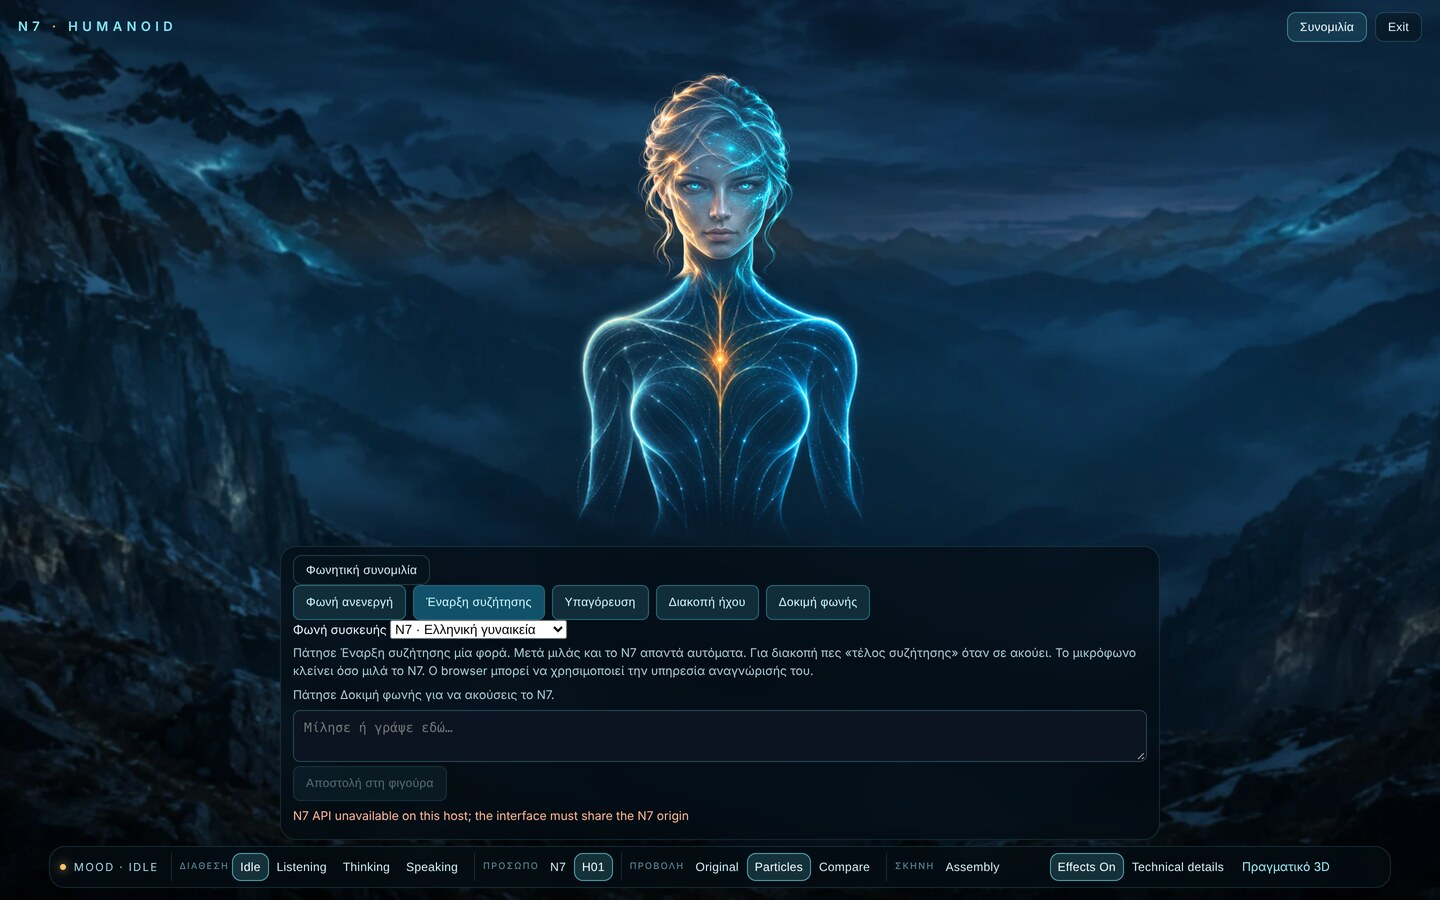
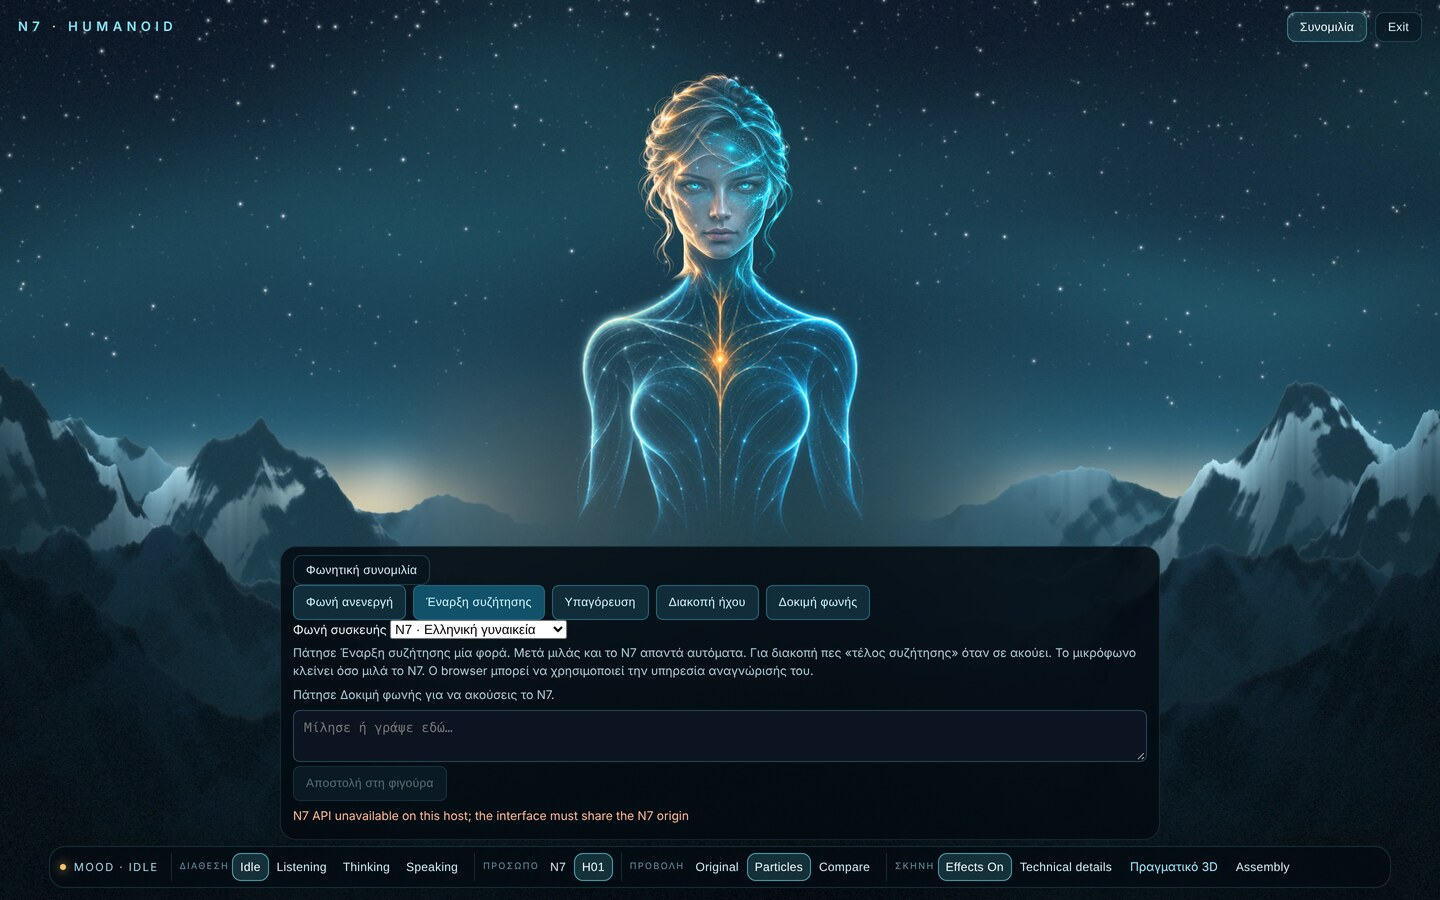
N7 visual trial: designed environment, rigid H01 face plate, stable reduced-motion check
Replace the regraded mountain raster with a new environment painted by code
(star field, horizon glow, six alpine ranges with snow light, valley mist)
that dissolves into dark mist behind the figure. Living highlights keep the
existing guide Step 6 mechanism and now sit on the snow-lit peaks.
H01 turns on a flatter face plate so its features no longer warp; the
approved N7 face volume is unchanged. The reduced-motion check waits for the
Speaking still frame instead of a fixed 200 ms.

Claude-Session: https://claude.ai/code/session_01RQ1QWM1ro54vsfywgD43Eu

diff --git a/tools/n7_apex_preview/N7HeadSurface.ts b/tools/n7_apex_preview/N7HeadSurface.ts
@@ -10,7 +10,10 @@ import * as THREE from "three";
 export type GuideFrame={turn:number;pitch?:number;roll?:number;breath?:number;assembly?:number;baseMood?:number;states?:number[];ages?:number[];ignition?:number;time?:number;voiceLevel?:number};
 // `scale` only raises the raster resolution (second face option); geometry,
 // joints and limits stay in the same 320x480 layout units.
-export function createHeadSurface(image:HTMLCanvasElement,scale=1) {
+// `faceRelief` 0 keeps the approved N7 volume exactly. 1 is for a realistic
+// face (H01): eyes, nose and mouth sit on a nearly flat plate that turns as
+// one piece, and the curvature moves out to the sides under the hair.
+export function createHeadSurface(image:HTMLCanvasElement,scale=1,faceRelief=0) {
   const renderer=new THREE.WebGLRenderer({alpha:false,antialias:false,depth:false,preserveDrawingBuffer:true});
   renderer.setSize(Math.round(320*scale),Math.round(480*scale),false);renderer.setPixelRatio(1);
   renderer.outputColorSpace=THREE.SRGBColorSpace;
@@ -34,7 +37,7 @@ export function createHeadSurface(image:HTMLCanvasElement,scale=1) {
   geometry.setAttribute("source",new THREE.Float32BufferAttribute(sources,2));
   geometry.setIndex(indices);
   const material=new THREE.ShaderMaterial({
-    uniforms:{turn:{value:0},pitch:{value:0},neckMatrix:{value:new THREE.Matrix4()},headMatrix:{value:new THREE.Matrix4()},artwork:{value:texture},breath:{value:0},opacity:{value:1},
+    uniforms:{turn:{value:0},pitch:{value:0},neckMatrix:{value:new THREE.Matrix4()},headMatrix:{value:new THREE.Matrix4()},faceRelief:{value:faceRelief},artwork:{value:texture},breath:{value:0},opacity:{value:1},
       baseMood:{value:0},states:{value:[0,0,0,0]},ages:{value:[0,0,0,0]},count:{value:0},ignition:{value:0},time:{value:0},voiceLevel:{value:-1}},
     depthTest:false,depthWrite:false,side:THREE.DoubleSide,toneMapped:false,transparent:true,
     vertexShader:`
@@ -44,6 +47,7 @@ export function createHeadSurface(image:HTMLCanvasElement,scale=1) {
     uniform float breath;
     uniform mat4 neckMatrix;
     uniform mat4 headMatrix;
+    uniform float faceRelief;
     varying vec2 texUV;
     varying float shade;
     varying float rim;
@@ -57,7 +61,9 @@ export function createHeadSurface(image:HTMLCanvasElement,scale=1) {
       // Rounded rest volume measured on the approved 320x480 artwork:
       // face oval, skull with hair, and the neck column under the chin.
       float face=dome(tile,vec2(160.,138.),vec2(66.,92.),64.);
-      float skull=dome(tile,vec2(160.,105.),vec2(96.,102.),46.);
+      float skull=dome(tile,vec2(160.,105.),vec2(96.,102.),mix(46.,34.,faceRelief));
+      float plateRho=min(1.,length((tile-vec2(160.,140.))/vec2(72.,98.)));
+      face=mix(face,42.*(1.-pow(plateRho,2.8)),faceRelief);
       float neck=28.*cos(min(1.,abs(tile.x-160.)/30.)*1.5707963)*smoothstep(170.,200.,tile.y);
       float depth=smax(smax(face,skull),neck)-6.;
       vec4 rest=vec4(tile.x,tile.y,depth,1.);

diff --git a/tools/n7_apex_preview/N7GuideView.tsx b/tools/n7_apex_preview/N7GuideView.tsx
@@ -129,10 +129,10 @@ export default function N7GuideView({open,onClose,activity,onWorkspace}:{open:bo
         <button type="button" aria-pressed={mode==="compare"} onClick={()=>{setMode("compare");setDetails(true);}}>Compare</button>
       </span>
       <span className="n7-guide-group"><small aria-hidden="true">ΣΚΗΝΗ</small>
-        <button type="button" className="n7-guide-assembly" disabled={!effects} onClick={replayAssembly}>{mode==="assembly"?"Replay Assembly":"Assembly"}</button>
         <button type="button" aria-pressed={effects} onClick={changeEffects}>Effects {effects?"On":"Off"}</button>
         <button type="button" aria-expanded={details} onClick={()=>setDetails(v=>!v)}>Technical details</button>
         <a href={N7_HUMANOID_REFERENCE.slice(0,N7_HUMANOID_REFERENCE.lastIndexOf("/"))+"/avatar-3d/"} target="_blank" rel="noopener noreferrer">Πραγματικό 3D</a>
+        <button type="button" className="n7-guide-assembly" disabled={!effects} onClick={replayAssembly}>{mode==="assembly"?"Replay Assembly":"Assembly"}</button>
         {/* Skip keeps its slot when it does not apply, so the dock and the figure never jump. */}
         {mode==="assembly"||!done?<button type="button" onClick={skip}>Skip</button>:<button type="button" disabled aria-hidden="true" tabIndex={-1} style={{visibility:"hidden"}}>Skip</button>}
       </span>

diff --git a/tools/n7_apex_preview/N7GuideScene.tsx b/tools/n7_apex_preview/N7GuideScene.tsx
@@ -54,7 +54,7 @@ export default function N7GuideScene(props:GuideSceneProps){
       if(disposed)return;
       if(scale===1)ctx.drawImage(image,0,0);else ctx.drawImage(image,0,0,W,H);
       ctx.putImageData(ctx.getImageData(0,0,W,H),0,0);
-      try{surface=createHeadSurface(reference,scale);}catch(e){host.dataset.renderError=String(e);reference.style.display="block";return;}
+      try{surface=createHeadSurface(reference,scale,config.current.source?1:0);}catch(e){host.dataset.renderError=String(e);reference.style.display="block";return;}
       Object.assign(surface.canvas.style,{width:"100%",height:"100%",display:"none"});host.append(surface.canvas);
       // Freeze each reduced-motion state on a native 2D canvas. Keeping a
       // constantly re-composited WebGL canvas visible was not byte-stable

diff --git a/tools/n7_apex_preview/prepare_backdrop_v3.py b/tools/n7_apex_preview/prepare_backdrop_v3.py
@@ -1,0 +1,157 @@
+#!/usr/bin/env python3
+"""Paint the designed N7 environment (v3) from nothing but code.
+
+A wide alpine dusk in the N7 palette: star field and a faint cyan veil in a
+navy sky, a gold-to-cyan glow on the horizon, six alpine ranges receding in
+haze with snow that catches the light, and mist lying in the valleys. The middle is kept open and dark so the screen-blended Humanoid
+stands clear. Stylised, not photographic. Deterministic; no source image and
+no image generation.
+"""
+import argparse, hashlib, pathlib, subprocess, tempfile
+import numpy as np
+from PIL import Image
+
+W, H = 2240, 1260
+RNG = np.random.default_rng(77)
+
+
+def smooth(a, b, x):
+    t = np.clip((x - a) / (b - a), 0, 1)
+    return t * t * (3 - 2 * t)
+
+
+def noise1d(n, knots, rng):
+    xs = np.linspace(0, 1, knots)
+    t = np.linspace(0, 1, n)
+    v = rng.uniform(-1, 1, knots)
+    i = np.clip(np.searchsorted(xs, t) - 1, 0, knots - 2)
+    f = (t - xs[i]) / (xs[i + 1] - xs[i]); f = f * f * (3 - 2 * f)
+    return v[i] * (1 - f) + v[i + 1] * f
+
+
+def fbm(n, base, octaves, rng, gain=.5):
+    out = np.zeros(n); amp = 1.0; total = 0.0
+    for o in range(octaves):
+        out += amp * noise1d(n, base * 2 ** o + 1, rng); total += amp; amp *= gain
+    return out / total
+
+
+def blur(a, radius):
+    """Gaussian blur of a float field, in the frequency domain (mirror-padded)."""
+    pad = int(radius * 3) + 1
+    f = np.pad(a.astype(np.float32), pad, mode="reflect")
+    fy = np.fft.fftfreq(f.shape[0])[:, None]; fx = np.fft.rfftfreq(f.shape[1])[None, :]
+    kernel = np.exp(-2 * (np.pi * radius) ** 2 * (fx ** 2 + fy ** 2))
+    out = np.fft.irfft2(np.fft.rfft2(f) * kernel, s=f.shape)
+    return out[pad:-pad, pad:-pad].astype(np.float32)
+
+
+def main():
+    ap = argparse.ArgumentParser(); ap.add_argument("--out", required=True); args = ap.parse_args()
+    yy, xx = np.mgrid[0:H, 0:W].astype(np.float32)
+    u, v = xx / W, yy / H
+    nx = (u - .5) * 2
+    horizon = .60
+
+    # Sky: navy zenith to a teal band, then the dusk glow sitting on the horizon.
+    t = smooth(0, horizon, v)[..., None]
+    sky = np.array([.006, .016, .040]) * (1 - t) + np.array([.020, .105, .170]) * t
+    glow_y = np.exp(-((v - horizon) / .11) ** 2)
+    sky += (glow_y * (.55 + .45 * np.exp(-(nx / .9) ** 2)))[..., None] * np.array([.040, .240, .320])
+    gold = np.exp(-((v - horizon + .030) / .045) ** 2) * (np.exp(-((nx + .46) / .30) ** 2) + .75 * np.exp(-((nx - .52) / .26) ** 2))
+    sky += gold[..., None] * np.array([.70, .40, .09])
+    # A faint cyan veil sweeping across the upper sky.
+    veil = np.zeros((H, W), np.float32)
+    for k, (cy, amp, width, freq, phase) in enumerate([(.20, .050, .050, 1.6, .3), (.29, .040, .035, 2.3, 1.7), (.13, .030, .060, 1.1, 2.6)]):
+        band = cy + amp * np.sin(u * np.pi * freq + phase) + .012 * np.sin(u * 23 + k)
+        veil += np.exp(-((v - band) / (width * 1.6)) ** 2) * (.5 + .5 * np.sin(u * np.pi * (1.3 + k) + k * 1.9)) ** 2 * .6
+    sky += (blur(veil * .5, 14) * 2)[..., None] * np.array([.012, .085, .100])
+    # Stars: mostly faint pinpoints, a handful brighter, thinning toward the horizon.
+    stars = np.zeros((H, W), np.float32)
+    count = 1500
+    sx, sy = RNG.integers(0, W, count), (RNG.random(count) ** 1.6 * H * horizon * .95).astype(int)
+    stars[sy, sx] = RNG.random(count) ** 7 + .05
+    stars = blur(stars, .75) * 5.5 + blur(stars ** 2, 2.2) * 9
+    sky += (stars * (1 - smooth(horizon - .26, horizon - .02, v)))[..., None] * np.array([.78, .92, 1.0])
+    img = sky.astype(np.float32)
+
+    # Alpine ranges, far to near: jagged ridged-noise crests with named peaks at
+    # the sides and a wide open valley in the middle for the figure.
+    line = np.linspace(-1, 1, W)
+
+    def ridged(base, octaves):
+        out = np.zeros(W); amp = 1.0; total = 0.0
+        for o in range(octaves):
+            out += amp * (1 - np.abs(noise1d(W, base * 2 ** o + 1, RNG))) ** 1.6; total += amp; amp *= .52
+        return out / total
+
+    layers = [  # centre crest, valley lift, roughness, peaks (x, height, width), colour, light, snow
+        (.585, .020, .030, [(-.62, .050, .30), (.70, .060, .28), (.08, .020, .25)], (.060, .200, .285), .55, .0),
+        (.610, .045, .050, [(-.80, .120, .30), (-.34, .060, .20), (.45, .095, .24), (.90, .110, .26)], (.040, .145, .215), .85, .55),
+        (.650, .075, .070, [(-.58, .190, .28), (.72, .215, .30), (.22, .045, .16)], (.026, .100, .158), 1.0, 1.0),
+        (.705, .110, .075, [(-.90, .250, .34), (.96, .230, .32), (-.30, .050, .18)], (.015, .062, .104), .75, .65),
+        (.775, .150, .070, [(-.70, .130, .30), (.62, .150, .30)], (.008, .034, .060), .35, .0),
+        (.865, .170, .060, [(-.95, .150, .40), (.98, .170, .40)], (.004, .016, .030), .10, .0),
+    ]
+    facet_a, facet_b = fbm(W * 2, 90, 5, RNG), fbm(W * 2, 70, 5, RNG)
+    columns = np.arange(W)[None, :]
+    for index, (centre, lift, rough, peaks, colour, light, snow) in enumerate(layers):
+        ridge = centre - lift * np.abs(line) ** 1.7 - rough * (ridged(7 + index * 2, 7) - .45)
+        prominence = np.zeros(W)
+        for px, ph, pw in peaks:
+            cone = np.clip(1 - np.abs(line - px) / pw, 0, 1) ** 1.25
+            ridge -= ph * cone * (.80 + .20 * ridged(18, 4)); prominence += cone * ph
+        depth = yy - ridge[None, :] * H
+        mask = smooth(-1.0, 1.0, depth)
+        colour = np.array(colour, np.float32)
+        below = np.clip(depth, 0, None)
+        # Rock faces: two families of descending ridgelines make lit and shadowed facets.
+        fall = below * .85
+        ia = np.clip((columns + fall).astype(int), 0, W * 2 - 1); ib = np.clip((columns - fall + W).astype(int), 0, W * 2 - 1)
+        facets = facet_a[ia] - facet_b[ib]
+        lit_side = -np.tanh(line * 3.0)[None, :]               # light comes from the glow behind the valley
+        lit = np.clip(.5 + 2.2 * facets * lit_side, 0, 1)
+        relief = np.exp(-below / (H * .16))
+        haze = 1 - np.exp(-below / (H * (.050 + .018 * index)))
+        body = colour[None, None, :] * (.62 + .75 * (lit * relief)[..., None])
+        body = body * (1 - .55 * haze[..., None]) + np.array([.022, .100, .140]) * (haze * max(0, .60 - .11 * index))[..., None]
+        if snow:
+            # Snow on the high faces: lit sides glint cyan-white, a little gold near the dusk.
+            cap = smooth(.02, .16, prominence)[None, :] * np.exp(-below / (H * .050)) * smooth(.35, .85, lit) * snow
+            grain = (fbm(W, 300, 3, RNG)[None, :] * .5 + .5)
+            body += (cap * (.55 + .45 * grain))[..., None] * np.array([.36, .72, .86])
+            dusk = np.exp(-((line + .46) / .26) ** 2) + .7 * np.exp(-((line - .52) / .24) ** 2)
+            body += (cap * dusk[None, :] * .35)[..., None] * np.array([.90, .55, .18])
+        img = img * (1 - mask[..., None]) + body * mask[..., None]
+        if light:
+            crest = np.exp(-below / (1.6 + index * .35)) * mask
+            img += (crest * light * .16)[..., None] * np.array([.45, .88, 1.0])
+        if index in (1, 2, 3):
+            # Mist lying in the valleys between the ranges.
+            band = centre + .035 + .020 * np.abs(line[None, :]) + .010 * fbm(W, 6 + index, 4, RNG)[None, :]
+            mist = np.exp(-((v - band) / (.020 + .004 * index)) ** 2) * (.40 + .60 * (fbm(W, 8 + index, 5, RNG)[None, :] * .5 + .5))
+            img += blur(mist, 10 + 4 * index)[..., None] * np.array([.044, .165, .215]) * (1.0 - .22 * index)
+
+    # Quiet stage behind the figure, soft vignette, fine grain against banding.
+    # Behind the figure the ranges dissolve into soft dark mist, so no ridge
+    # line or horizon edge shows through the translucent, screen-blended body.
+    column = np.exp(-(nx / .36) ** 6) * smooth(.26, .46, v)
+    soft = np.stack([blur(img[..., c], 80) for c in range(3)], axis=2)
+    img = img * (1 - column[..., None]) + soft * column[..., None]
+    stage = 1 - .56 * np.exp(-(nx / .34) ** 4) * smooth(.26, .56, v) - .16 * np.exp(-((nx / .30) ** 2 + ((v - .30) / .30) ** 2))
+    vignette = 1 - .45 * smooth(.55, 1.35, np.sqrt(nx ** 2 + ((v - .5) * 1.5) ** 2))
+    img *= (stage * vignette)[..., None]
+    img += RNG.normal(0, .0035, (H, W, 1)).astype(np.float32)
+    img = np.clip(img, 0, 1) ** (1 / 1.9)
+
+    image = Image.fromarray((img * 255 + .5).astype(np.uint8), "RGB")
+    target = pathlib.Path(args.out)
+    with tempfile.TemporaryDirectory() as tmp:
+        png = pathlib.Path(tmp) / "out.png"; image.save(png)
+        subprocess.run(["ffmpeg", "-loglevel", "error", "-y", "-i", str(png), "-c:v", "libwebp", "-quality", "92", str(target)], check=True)
+    image.save(target.with_suffix(".preview.png"))
+    print("N7_BACKDROP_V3_READY", target, image.size, hashlib.sha256(target.read_bytes()).hexdigest())
+
+
+if __name__ == "__main__":
+    main()

diff --git a/tools/n7_apex_preview/build_apex_preview.py b/tools/n7_apex_preview/build_apex_preview.py
@@ -195,13 +195,13 @@ def main():
         (out/"app/avatar-3d/page.tsx").write_text('import N7RealAvatar from "@/components/N7RealAvatar";\nexport default function RealAvatar(){return <N7RealAvatar/>;}\n')
     shutil.copy2(overlay/"assets/n7-mountain-backdrop.webp",out/"public/n7-mountain-backdrop.webp")
     if isolated:
-        # Visual trial: wider, quieter N7 environment and the H01 second face option.
[1 lines of base64/hex data omitted]
+        # Visual trial: the designed N7 environment and the H01 second face option.
[2 lines of base64/hex data omitted]
             data=(overlay/"assets"/name).read_bytes()
             if hashlib.sha256(data).hexdigest()!=digest: raise RuntimeError("wrong visual asset "+name)
             (out/"public"/name).write_bytes(data)
-        (out/"components/N7BackdropReference.ts").write_text(f'export const N7_BACKDROP_REFERENCE = "{base_path}/n7-mountain-backdrop-v2.webp";\n')
+        (out/"components/N7BackdropReference.ts").write_text(f'export const N7_BACKDROP_REFERENCE = "{base_path}/n7-environment-v3.webp";\n')
 
     patch_exact(out/"app/page.tsx",'import ApexWorld from "@/components/ApexWorld";','import N7ApexStage from "@/components/N7ApexStage";')
     patch_exact(out/"app/page.tsx",'''<section style={{ position: "relative", height: "100vh", minHeight: 620 }}>

diff --git a/docs/validation/n7-visual-h01.md b/docs/validation/n7-visual-h01.md
@@ -10,24 +10,27 @@ The approved eyeless N7 face stays the default. The dock has a face selector (N7
 
 H01 is not a new renderer. `prepare_h01_figure.py` composes the committed, owner-supplied `n7-head-h01.webp` onto the approved body and the existing scene loads that raster instead (`n7-humanoid-h01-v1.webp`, 800×1200, so the detailed face is rendered at 2.5× the line-art resolution). The same neck/skull joints, limits, state postures, moods and voice reaction apply.
 
+- Turning: a realistic face shows any warping, so with H01 the rig uses a flatter face plate (`faceRelief`): eyes, nose and mouth turn as one piece and the curvature moves to the sides under the hair. The approved N7 face keeps its original volume exactly.
 - Proportion: uniform scale so hair top and chin land on the approved head's own points (y 20 and 200 of 480). Face width comes out at 95 units against 90 for the approved face. The face and chin are not warped.
 - One neck: below the chin only, the H01 neck is narrowed sideways (half-width 34 → 26.5 units) so its warm and cool rim lines run into the body's neck outline, then the skin fades into the body's neck. Its cut-off bust edge is not shown. The approved line-art head and its loose strands are removed; neck and shoulders are kept.
 - Light and colour: H01's blue is turned 6° toward N7 cyan and its orange 5° toward N7 gold; the left shoulder lines take a restrained warm key to match H01's warm-left, cool-right lighting.
 
-No image generation was used. Limits: the same as the approved face — only a front view exists, so the turn stays bounded (±0.34 rad) and there is no profile. The figure is screen-blended, so the realistic H01 skin is slightly translucent over bright scenery; the new environment is darker behind the figure for that reason.
+No image generation was used. Limits: the same as the approved face — only a front view exists, so the turn stays bounded (±0.34 rad) and there is no profile. The figure is screen-blended, so the realistic H01 skin is slightly translucent over bright scenery; the new environment dissolves into dark mist behind the figure for that reason.
 
 ## 2. Environment
 
-`prepare_backdrop_v2.py` derives `n7-mountain-backdrop-v2.webp` (2400×1028) from the existing mountain raster: mirrored continuation to a 21:9 panorama, light depth softening that increases toward the edges, a navy/cyan grade with a faint gold dusk line and a cyan valley haze, a darker stage behind the figure, soft vignette. It is a regrade of the existing scene, not a newly painted one. The living ridge highlights of guide Step 6 still run on it (10 detected locally). On screens narrower than 21:9 the mirrored side extensions are cropped away by `object-fit: cover`.
+The owner did not see a change in the first attempt (a regrade of the existing mountain raster, removed again) and chose a newly designed scene. `prepare_backdrop_v3.py` paints `n7-environment-v3.webp` (2240×1260) entirely by code, with no source image and no image generation: a navy sky with a star field and a faint cyan veil, a gold-to-cyan glow on the horizon, six alpine ranges receding in haze with snow that catches the light on the tall side peaks, and mist in the valleys. Behind the figure the ranges dissolve into soft dark mist across the full width of the body, so no ridge line or horizon edge shows through the translucent, screen-blended figure. It is stylised, not photographic.
+
+Living highlights (guide Step 6) are the existing `N7Backdrop.tsx` mechanism, unchanged: one analysis of the loaded image picks up to twelve of its already-bright cyan or warm spots, and a small patch in the image's own colours at each spot fades between 8% and 78% opacity on a 9.6 s cycle with staggered phases. No per-frame analysis; Effects Off and reduced motion hide the layer. On the new scene twelve are found, sitting on the snow-lit peaks.
 
 ## 3. Menu
 
-Presentation only; every option keeps its accessible name. One slim glass dock, grouped ΔΙΑΘΕΣΗ (Idle, Listening, Thinking, Speaking) · ΠΡΟΣΩΠΟ (N7, H01) · ΠΡΟΒΟΛΗ (Original, Particles, Compare) · ΣΚΗΝΗ (Assembly/Replay, Effects, Technical details, Πραγματικό 3D, Skip), with the live status at the left. Skip keeps its slot when it does not apply, so neither the dock nor the figure jumps when assembly ends. The voice panel is restyled by CSS from `N7GuideView.tsx` only (centred card; a single pill when collapsed). Header, dock and voice panel sit outside the figure's box. On phones the dock stays one horizontally scrolling row, as before.
+Presentation only; every option keeps its accessible name. One slim glass dock, grouped ΔΙΑΘΕΣΗ (Idle, Listening, Thinking, Speaking) · ΠΡΟΣΩΠΟ (N7, H01) · ΠΡΟΒΟΛΗ (Original, Particles, Compare) · ΣΚΗΝΗ (Assembly/Replay, Effects, Technical details, Πραγματικό 3D, Skip), with the live status at the left. Skip keeps its slot when it does not apply, so neither the dock nor the figure jumps when assembly ends. No blur effects are used (a first version with glass blur raised the software-rendered frame time from 44 to 51 ms and was dropped). The voice panel is restyled by CSS from `N7GuideView.tsx` only (centred card; a single pill when collapsed). Header, dock and voice panel sit outside the figure's box. On phones the dock stays one horizontally scrolling row, as before.
 
 ## Local verification (real browser, real WebGL pixels)
 
-New `test_face_menu.cjs`: default face is the approved v4 at 320×480; all 15 buttons and the 3D link present by name; dock one row (< 64 px) and zero overlap of header, dock and voice panel with the figure, with the conversation closed and open; v2 environment in use with living highlights; H01 at 800×1200 on rig `n7-neck-skull-joints-v3`; right, left, up and down poses move with zero coverage gaps; exact return to the rest image; moods and conversation panel work with H01; choice survives reload. No browser or shader errors.
+New `test_face_menu.cjs`: default face is the approved v4 at 320×480; all 15 buttons and the 3D link present by name; dock one row (< 64 px) and zero overlap of header, dock and voice panel with the figure, with the conversation closed and open; designed environment in use with living highlights; H01 at 800×1200 on rig `n7-neck-skull-joints-v3`; right, left, up and down poses move with zero coverage gaps; exact return to the rest image; moods and conversation panel work with H01; choice survives reload. No browser or shader errors.
 
-All eleven existing suites pass unchanged on the same build: head/backdrop regression, joints, complete guide, voice, voice reactivity, Greek female Piper voice, automatic conversation, mobile conversation, passwordless, real-avatar trial and H01 head trial. As before, API, speech-recognition input and tone PCM in those suites are fixtures; the Piper model, Web Audio and rendering are real. `test_head_joints.cjs` and the workflow now take the preview path from the environment instead of hard-coding `/n7-apex-step5/`.
+All eleven existing suites pass unchanged on the same build: head/backdrop regression, joints, complete guide, voice, voice reactivity, Greek female Piper voice, automatic conversation, mobile conversation, passwordless, real-avatar trial and H01 head trial. As before, API, speech-recognition input and tone PCM in those suites are fixtures; the Piper model, Web Audio and rendering are real. The workflow now takes the preview path from the environment instead of hard-coding `/n7-apex-step5/`. One change to an existing test: the reduced-motion check in `test_complete_guide.cjs` waited a fixed 200 ms after selecting Speaking and failed intermittently under load at the end of that suite (once in CI, three of four live runs; six of six isolated replays were stable). It now waits for the Speaking still frame itself before comparing two captures 350 ms apart; the assertion is unchanged. The cause of the slow state change was not established beyond load.
 
 Evidence: `n7-visual-h01-evidence/`. Live results are added below only after the deployed trial has actually been checked.
